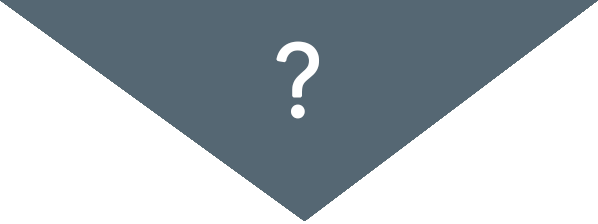
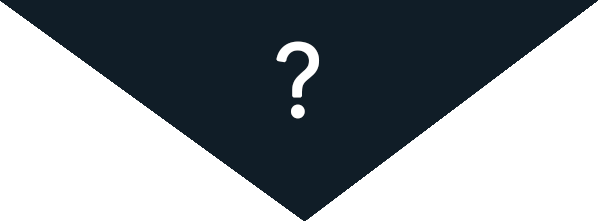
test
…

diff --git a/css/style.css b/css/style.css
@@ -1,1 +1,1 @@
-html,body,div,span,applet,object,iframe,h1,h2,h3,h4,h5,h6,p,blockquote,pre,a,abbr,acronym,address,big,cite,code,del,dfn,em,img,ins,kbd,q,s,samp,small,strike,strong,sub,sup,tt,var,b,u,i,center,dl,dt,dd,ol,ul,li,fieldset,form,label,legend,table,caption,tbody,tfoot,thead,tr,th,td,article,aside,canvas,details,embed,figure,figcaption,footer,header,hgroup,menu,nav,output,ruby,section,summary,time,mark,audio,video{margin:0;padding:0;border:0;font:inherit;font-size:100%;vertical-align:baseline}html{line-height:1}ol,ul{list-style:none}table{border-collapse:collapse;border-spacing:0}caption,th,td{text-align:left;font-weight:normal;vertical-align:middle}q,blockquote{quotes:none}q:before,q:after,blockquote:before,blockquote:after{content:"";content:none}a img{border:none}article,aside,details,figcaption,figure,footer,header,hgroup,main,menu,nav,section,summary{display:block}@font-face{font-family:"AvenirNext";src:url(../fonts/avenirnext.ttc)}@font-face{font-family:"Silom";src:url(../fonts/silom.ttf)}html{width:100%;height:100%}body{background-color:#101d27;background-image:url(../imgs/lowpoly.png);background-size:100%;background-repeat:no-repeat;overflow:auto}body header{background-color:black;width:100%;height:90px;z-index:20;position:fixed}body header #nav_haute{height:25px;width:100%;background:black}body header #barre_orange{height:4px;background:#ecc557;-webkit-animation-name:orange;-webkit-animation-duration:1s;animation-name:orange;animation-duration:1s}body header nav{width:100%;height:70px;background:black;oppacity:0.9}body header nav #nav_gauche{width:40%;float:left}body header nav #nav_gauche ul{margin-top:20px}body header nav #nav_gauche ul li a{color:white;opacity:0;display:block;text-decoration:none;font-family:"Avenir Next";text-align:center;font-size:25px;-webkit-animation-name:item_menu;-webkit-animation-duration:1s;-webkit-animation-delay:2s;-webkit-animation-fill-mode:forwards;animation-name:item_menu;animation-duration:1s;animation-delay:3s;animation-fill-mode:forwards}body header nav #nav_gauche ul li a:hover{color:#ecc557}body header nav #nav_gauche ul li:nth-child(1){width:50%;float:left}body header nav #nav_gauche ul li:nth-child(2){width:50%;float:right}body header nav #logo{width:20%;height:90px;visibility:hidden;position:absolute;margin-left:40%;background-image:url(../imgs/logo.png);background-size:71%;background-repeat:no-repeat;background-position:top center;-webkit-animation-name:logo;-webkit-animation-duration:1s;-webkit-animation-delay:1s;-webkit-animation-fill-mode:forwards;animation-name:logo;animation-duration:1s;animation-delay:1s;animation-fill-mode:forwards}body header nav #nav_droite{width:40%;float:right}body header nav #nav_droite ul{margin-top:20px}body header nav #nav_droite ul li a{color:white;opacity:0;display:block;text-decoration:none;font-family:"Avenir Next";text-align:center;font-size:25px;-webkit-animation-name:item_menu;-webkit-animation-duration:1s;-webkit-animation-delay:2s;-webkit-animation-fill-mode:forwards;animation-name:item_menu;animation-duration:1s;animation-delay:3s;animation-fill-mode:forwards}body header nav #nav_droite ul li a:hover{color:#ecc557}body header nav #nav_droite ul li:nth-child(1){width:50%;float:left}body header nav #nav_droite ul li:nth-child(2){width:50%;float:right}body header #transparente{width:100%;height:50px;opacity:0}body .fil_orange{width:0%;height:2px;position:relative;top:200px;-webkit-animation-name:fil_orange;-webkit-animation-duration:10s;-webkit-animation-delay:3s;-webkit-animation-iteration-count:infinite;-webkit-animation-timing-function:linear;animation-name:orange;animation-duration:3s;animation-delay:3s;animation:leaves O 0.3s;animation-iteration-count:infinite}body .fil_bleu_clair{width:0%;height:4px;position:relative;top:250px;-webkit-animation-name:fil_bleu_clair;-webkit-animation-duration:5s;-webkit-animation-delay:6s;-webkit-animation-iteration-count:infinite;-webkit-animation-timing-function:linear;animation-name:orange;animation-duration:3s;animation-delay:3s;animation:leaves O 0.3s;animation-iteration-count:infinite}body .fil_orange_2{width:0%;height:3px;position:relative;top:320px;-webkit-animation-name:fil_orange;-webkit-animation-duration:30s;-webkit-animation-delay:8s;-webkit-animation-iteration-count:infinite;-webkit-animation-timing-function:linear;animation-name:orange;animation-duration:3s;animation-delay:3s;animation:leaves O 0.3s;animation-iteration-count:infinite}body .fil_bleu_fonce{width:0%;height:6px;position:relative;top:350px;-webkit-animation-name:fil_bleu_fonce;-webkit-animation-duration:5s;-webkit-animation-delay:9s;-webkit-animation-iteration-count:infinite;-webkit-animation-timing-function:linear;animation-name:orange;animation-duration:3s;animation-delay:3s;animation:leaves O 0.3s;animation-iteration-count:infinite}body .fil_bleu_clair_2{width:0%;height:1px;position:relative;top:400px;-webkit-animation-name:fil_bleu_clair;-webkit-animation-duration:48s;-webkit-animation-delay:7s;-webkit-animation-iteration-count:infinite;-webkit-animation-timing-function:linear;animation-name:orange;animation-duration:3s;animation-delay:3s;animation:leaves O 0.3s;animation-iteration-count:infinite}body .fil_orange_3{width:0%;height:1px;position:relative;top:420px;-webkit-animation-name:fil_orange;-webkit-animation-duration:25s;-webkit-animation-delay:6.7s;-webkit-animation-iteration-count:infinite;-webkit-animation-timing-function:linear;animation-name:orange;animation-duration:3s;animation-delay:3s;animation:leaves O 0.3s;animation-iteration-count:infinite}body .fil_bleu_fonce_2{width:0%;height:1px;position:relative;top:470px;-webkit-animation-name:fil_bleu_fonce;-webkit-animation-duration:33s;-webkit-animation-delay:4.8s;-webkit-animation-iteration-count:infinite;-webkit-animation-timing-function:linear;animation-name:orange;animation-duration:3s;animation-delay:3s;animation:leaves O 0.3s;animation-iteration-count:infinite}body #illustration{width:100%;max-width:650px;margin:auto;margin-top:120px;margin-bottom:40px;display:block;z-index:-1;opacity:0;-webkit-animation-name:article;-webkit-animation-duration:1s;-webkit-animation-delay:3s;-webkit-animation-fill-mode:forwards;animation-name:article;animation-duration:3s;animation-delay:3s;animation-fill-mode:forwards}body .ligne_bleu{margin-top:10px;height:4px;width:100%;background:#556773}body .triangle_qui_suis_je{width:20%;height:100px;position:absolute;margin-left:40%;background-image:url(../imgs/qui-suis-je.png);background-size:71%;background-repeat:no-repeat;background-position:top center}body #qui-suis-je{width:100%;max-width:100%;margin:auto;bottom:30;background-color:#254258;overflow:auto}body #qui-suis-je article:nth-child(1){width:960px;margin:auto;font-family:"Avenir Next"}body #qui-suis-je article:nth-child(1) h1{color:white;font-size:35px;text-align:center;margin-top:150px}body #qui-suis-je article:nth-child(1) hr{height:2px;background-color:white;border:0;width:200px}body #qui-suis-je article:nth-child(1) p{color:white;text-align:justify;margin:20px 0px 20px 0px;line-height:20px;font-size:16px}body #qui-suis-je article:nth-child(1) .annonce{font-size:16px;text-align:center;line-height:20px;color:black;background:#ecc557;padding:10px 10px 10px 10px;margin-top:20px;margin:auto;width:500px;margin-bottom:150px}body #qui-suis-je article:nth-child(1) #rs{width:100%;overflow:auto;text-align:center;margin:20px 0px 20px 0px}body #qui-suis-je article:nth-child(1) #rs a{overflow:auto}body #qui-suis-je article:nth-child(1) #rs a img{width:40px}body #qui-suis-je article:nth-child(1) #rs a img:nth-child(1){margin:0px 10px 0px 10px}body #qui-suis-je article:nth-child(1) #rs a img:last-child{width:40px}@-webkit-keyframes orange{0%{width:0%;background:#ecc557}100%{width:100%;background:#ecc557}}@keyframes orange{0%{width:0%;background:#ecc557}100%{width:100%;background:#ecc557}}@-webkit-keyframes logo{0%{height:0px;visibility:visible}100%{height:100px;visibility:visible}}@keyframes logo{0%{height:0%;visibility:visible}100%{height:100%;visibility:visible}}@-webkit-keyframes item_menu{0%{opacity:0}100%{opacity:1}}@keyframes item_menu{0%{opacity:0}100%{opacity:1}}@-webkit-keyframes article{0%{opacity:0}100%{opacity:1}}@keyframes article{0%{opacity:0}100%{opacity:1}}@-webkit-keyframes fil_orange{0%{width:0%;background:#ecc557;opacity:1}40%{opacity:0.4}50%{width:100%;background:#ecc557;opacity:0.1}51%{opacity:0;background:#ecc557}100%{opacity:0;background:#ecc557}}@keyframes fil_orange{0%{width:0%;background:#ecc557}50%{width:100%;background:#ecc557}}@-webkit-keyframes fil_bleu_clair{0%{width:0%;background:#70818d;opacity:1}40%{opacity:0.4}50%{width:100%;background:#70818d;opacity:0.1}51%{opacity:0;background:#70818d}100%{opacity:0;background:#70818d}}@-webkit-keyframes fil_bleu_fonce{0%{width:0%;background:#556773;opacity:1}40%{opacity:0.4}50%{width:100%;background:#556773;opacity:0.1}51%{opacity:0;background:#556773}100%{opacity:0;background:#556773}}
+html,body,div,span,applet,object,iframe,h1,h2,h3,h4,h5,h6,p,blockquote,pre,a,abbr,acronym,address,big,cite,code,del,dfn,em,img,ins,kbd,q,s,samp,small,strike,strong,sub,sup,tt,var,b,u,i,center,dl,dt,dd,ol,ul,li,fieldset,form,label,legend,table,caption,tbody,tfoot,thead,tr,th,td,article,aside,canvas,details,embed,figure,figcaption,footer,header,hgroup,menu,nav,output,ruby,section,summary,time,mark,audio,video{margin:0;padding:0;border:0;font:inherit;font-size:100%;vertical-align:baseline}html{line-height:1}ol,ul{list-style:none}table{border-collapse:collapse;border-spacing:0}caption,th,td{text-align:left;font-weight:normal;vertical-align:middle}q,blockquote{quotes:none}q:before,q:after,blockquote:before,blockquote:after{content:"";content:none}a img{border:none}article,aside,details,figcaption,figure,footer,header,hgroup,main,menu,nav,section,summary{display:block}@font-face{font-family:"AvenirNext";src:url(../fonts/avenirnext.ttc)}@font-face{font-family:"Silom";src:url(../fonts/silom.ttf)}html{width:100%;height:100%}body{background-color:#101d27;background-image:url(../imgs/lowpoly.png);background-size:100%;background-repeat:no-repeat;overflow:auto}body header{background-color:black;width:100%;height:90px;z-index:20;position:fixed}body header #nav_haute{height:25px;width:100%;background:black}body header #barre_orange{height:4px;background:#ecc557;-webkit-animation-name:orange;-webkit-animation-duration:1s;animation-name:orange;animation-duration:1s}body header nav{width:100%;height:70px;background:black;oppacity:0.9}body header nav #nav_gauche{width:40%;float:left}body header nav #nav_gauche ul{margin-top:20px}body header nav #nav_gauche ul li a{color:white;opacity:0;display:block;text-decoration:none;font-family:"Avenir Next";text-align:center;font-size:25px;-webkit-animation-name:item_menu;-webkit-animation-duration:1s;-webkit-animation-delay:2s;-webkit-animation-fill-mode:forwards;animation-name:item_menu;animation-duration:1s;animation-delay:3s;animation-fill-mode:forwards}body header nav #nav_gauche ul li a:hover{color:#ecc557}body header nav #nav_gauche ul li:nth-child(1){width:50%;float:left}body header nav #nav_gauche ul li:nth-child(2){width:50%;float:right}body header nav #logo{width:20%;height:90px;visibility:hidden;position:absolute;margin-left:40%;background-image:url(../imgs/logo.png);background-size:71%;background-repeat:no-repeat;background-position:top center;-webkit-animation-name:logo;-webkit-animation-duration:1s;-webkit-animation-delay:1s;-webkit-animation-fill-mode:forwards;animation-name:logo;animation-duration:1s;animation-delay:1s;animation-fill-mode:forwards}body header nav #nav_droite{width:40%;float:right}body header nav #nav_droite ul{margin-top:20px}body header nav #nav_droite ul li a{color:white;opacity:0;display:block;text-decoration:none;font-family:"Avenir Next";text-align:center;font-size:25px;-webkit-animation-name:item_menu;-webkit-animation-duration:1s;-webkit-animation-delay:2s;-webkit-animation-fill-mode:forwards;animation-name:item_menu;animation-duration:1s;animation-delay:3s;animation-fill-mode:forwards}body header nav #nav_droite ul li a:hover{color:#ecc557}body header nav #nav_droite ul li:nth-child(1){width:50%;float:left}body header nav #nav_droite ul li:nth-child(2){width:50%;float:right}body header #transparente{width:100%;height:50px;opacity:0}body .fil_orange{width:0%;height:2px;position:relative;top:200px;-webkit-animation-name:fil_orange;-webkit-animation-duration:10s;-webkit-animation-delay:3s;-webkit-animation-iteration-count:infinite;-webkit-animation-timing-function:linear;animation-name:orange;animation-duration:3s;animation-delay:3s;animation:leaves O 0.3s;animation-iteration-count:infinite}body .fil_bleu_clair{width:0%;height:4px;position:relative;top:250px;-webkit-animation-name:fil_bleu_clair;-webkit-animation-duration:5s;-webkit-animation-delay:6s;-webkit-animation-iteration-count:infinite;-webkit-animation-timing-function:linear;animation-name:orange;animation-duration:3s;animation-delay:3s;animation:leaves O 0.3s;animation-iteration-count:infinite}body .fil_orange_2{width:0%;height:3px;position:relative;top:320px;-webkit-animation-name:fil_orange;-webkit-animation-duration:30s;-webkit-animation-delay:8s;-webkit-animation-iteration-count:infinite;-webkit-animation-timing-function:linear;animation-name:orange;animation-duration:3s;animation-delay:3s;animation:leaves O 0.3s;animation-iteration-count:infinite}body .fil_bleu_fonce{width:0%;height:6px;position:relative;top:350px;-webkit-animation-name:fil_bleu_fonce;-webkit-animation-duration:5s;-webkit-animation-delay:9s;-webkit-animation-iteration-count:infinite;-webkit-animation-timing-function:linear;animation-name:orange;animation-duration:3s;animation-delay:3s;animation:leaves O 0.3s;animation-iteration-count:infinite}body .fil_bleu_clair_2{width:0%;height:1px;position:relative;top:400px;-webkit-animation-name:fil_bleu_clair;-webkit-animation-duration:48s;-webkit-animation-delay:7s;-webkit-animation-iteration-count:infinite;-webkit-animation-timing-function:linear;animation-name:orange;animation-duration:3s;animation-delay:3s;animation:leaves O 0.3s;animation-iteration-count:infinite}body .fil_orange_3{width:0%;height:1px;position:relative;top:420px;-webkit-animation-name:fil_orange;-webkit-animation-duration:25s;-webkit-animation-delay:6.7s;-webkit-animation-iteration-count:infinite;-webkit-animation-timing-function:linear;animation-name:orange;animation-duration:3s;animation-delay:3s;animation:leaves O 0.3s;animation-iteration-count:infinite}body .fil_bleu_fonce_2{width:0%;height:1px;position:relative;top:470px;-webkit-animation-name:fil_bleu_fonce;-webkit-animation-duration:33s;-webkit-animation-delay:4.8s;-webkit-animation-iteration-count:infinite;-webkit-animation-timing-function:linear;animation-name:orange;animation-duration:3s;animation-delay:3s;animation:leaves O 0.3s;animation-iteration-count:infinite}body #illustration{width:100%;max-width:650px;margin:auto;margin-top:120px;margin-bottom:40px;display:block;z-index:-1;opacity:0;-webkit-animation-name:article;-webkit-animation-duration:1s;-webkit-animation-delay:3s;-webkit-animation-fill-mode:forwards;animation-name:article;animation-duration:3s;animation-delay:3s;animation-fill-mode:forwards;background:fixed}body #intitule_pricipale{font-size:42px;font-family:"Avenir Next";color:#cec5c5;text-align:center;margin-bottom:40px}body #intitule_secondaire{font-family:"Silom";font-size:12px;color:#969696;text-align:center}body .ligne_qui-suis-je{margin-top:10px;height:4px;width:100%;background:#101d27}body .triangle_qui_suis_je{width:20%;height:100px;position:absolute;margin-left:40%;background-image:url(../imgs/qui-suis-je.png);background-size:71%;background-repeat:no-repeat;background-position:top center}body #qui-suis-je{width:100%;max-width:100%;margin:auto;bottom:30;background-color:#283946;overflow:auto}body #qui-suis-je article:nth-child(1){width:960px;margin:auto;font-family:"Avenir Next"}body #qui-suis-je article:nth-child(1) h1{color:white;font-size:35px;text-align:center;margin-top:150px}body #qui-suis-je article:nth-child(1) hr{height:2px;background-color:white;border:0;width:200px}body #qui-suis-je article:nth-child(1) p{color:white;text-align:justify;margin:20px 0px 20px 0px;line-height:30px;font-size:16px}body #qui-suis-je article:nth-child(1) .annonce{font-size:16px;text-align:center;line-height:20px;color:black;background:#ecc557;padding:10px 10px 10px 10px;margin-top:20px;margin:auto;width:500px;margin-bottom:150px}body #qui-suis-je article:nth-child(1) #rs{width:100%;text-align:center;margin:20px 0px 20px 0px}body #qui-suis-je article:nth-child(1) #rs a{overflow:auto}body #qui-suis-je article:nth-child(1) #rs a img{width:40px}body #qui-suis-je article:nth-child(1) #rs a img:nth-child(1){margin:0px 10px 0px 10px}body #qui-suis-je article:nth-child(1) #rs a img:last-child{width:40px}body .ligne_cv{height:4px;width:100%;background:#283946}body .triangle_cv{width:20%;height:100px;position:absolute;margin-left:40%;background-image:url(../imgs/cv.png);background-size:71%;background-repeat:no-repeat;background-position:top center}body #cv{width:100%;max-width:100%;margin:auto;bottom:30;background-color:#556773;overflow:auto}body #cv article:nth-child(1){width:960px;margin:auto;font-family:"Avenir Next"}body #cv article:nth-child(1) h1{color:white;font-size:35px;text-align:center;margin-top:150px}body #cv article:nth-child(1) hr{height:2px;background-color:white;border:0;width:200px}body #cv article:nth-child(1) p{color:white;text-align:justify;margin:20px 0px 20px 0px;line-height:30px;font-size:16px}@-webkit-keyframes orange{0%{width:0%;background:#ecc557}100%{width:100%;background:#ecc557}}@keyframes orange{0%{width:0%;background:#ecc557}100%{width:100%;background:#ecc557}}@-webkit-keyframes logo{0%{height:0px;visibility:visible}100%{height:100px;visibility:visible}}@keyframes logo{0%{height:0%;visibility:visible}100%{height:100%;visibility:visible}}@-webkit-keyframes item_menu{0%{opacity:0}100%{opacity:1}}@keyframes item_menu{0%{opacity:0}100%{opacity:1}}@-webkit-keyframes article{0%{opacity:0}100%{opacity:1}}@keyframes article{0%{opacity:0}100%{opacity:1}}@-webkit-keyframes fil_orange{0%{width:0%;background:#ecc557;opacity:1}40%{opacity:0.4}50%{width:100%;background:#ecc557;opacity:0.1}51%{opacity:0;background:#ecc557}100%{opacity:0;background:#ecc557}}@keyframes fil_orange{0%{width:0%;background:#ecc557}50%{width:100%;background:#ecc557}}@-webkit-keyframes fil_bleu_clair{0%{width:0%;background:#70818d;opacity:1}40%{opacity:0.4}50%{width:100%;background:#70818d;opacity:0.1}51%{opacity:0;background:#70818d}100%{opacity:0;background:#70818d}}@-webkit-keyframes fil_bleu_fonce{0%{width:0%;background:#556773;opacity:1}40%{opacity:0.4}50%{width:100%;background:#556773;opacity:0.1}51%{opacity:0;background:#556773}100%{opacity:0;background:#556773}}

diff --git a/index.html b/index.html
@@ -50,46 +50,59 @@
 	    
 	    
 	   <img id="illustration" src="imgs/axelbaron.png" alt="">
+	    <p id="intitule_pricipale">Developpeur web front / back</p>
+	   <p id="intitule_secondaire">Illustrateur / Bassiste</p>
 	    
         
-        <div class="ligne_bleu"></div>
+        <div class="ligne_qui-suis-je"></div>
         <div class="triangle_qui_suis_je"></div>
-        <section id="qui-suis-je">
-            
-            <article>
-                <h1>Qui suis-je ?</h1>
+       <section id="qui-suis-je">
+
+        <article>
+            <h1>Qui suis-je ?</h1>
+            <hr/>
+
+            <p>Bienvenue sur mon portfolio, je suis étudiant en DUT Métiers du Multimédias et de l'Internet, vous trouverez ici mes créations webs, graphiques et musicales. N'hésitez pas à me contacter grâce au formulaire de contact, ou à télécharger mon CV..</p>
+
+            <div id="rs">
+                        <a href="https://www.facebook.com/axlbrn"><img src="imgs/facebook.png" alt="logo facebook"></a>
+                        <a href="https://twitter.com/Axl_Baron"><img src="imgs/tweeter.png" alt="logo tweeter"></a>
+                        <a href="https://www.linkedin.com/profile/view?id=296565905&trk=hp-identity-name"><img src="imgs/linkdin.png" alt="logo linkdin"></a>
+           </div>
+
+            <p class="annonce">Je suis actuellement à la recherche d'un contrat de profesionnalisation dans le domaine du développement web pour l'année scolaire 2015 / 2016 ! </p>
+
+
+
+        </article>
+
+<!--
+        <article>
+            <div id="information">
+                <div id="haut_orange"></div>
+               
+                
+                <div id="information_contener">
+                    <p>Bienvenue ! Je suis étudiant en DUT Métiers du Multimédia et de l'Internet, vous trouverez ici mes créations webs en tant qu'développer front et back, mais aussi en temps qu'illustrateur et musicien. N'hésitez pas à me contacter grâce au formulaire de contact, ou à télécharger mon CV.</p>
+
+                    <p>Je suis actuellement à la recherche d'un contrat de profesionnalisation dans le domaine du développement web pour l'année scolaire 2015 / 2016 ! </p>
+
+                </div>
+            </div>
+            <div id="triangle_information"></div>
+        </article>
+-->
+    </section>
+	    
+	    <div class="ligne_cv"></div>
+        <div class="triangle_cv"></div>
+	    <section id="cv">
+	        <article>
+                <h1>C.V</h1>
                 <hr/>
-                
-                <p>Bienvenue sur mon portfolio, je suis étudiant en DUT Métiers du Multimédias et de l'Internet, vous trouverez ici mes créations webs, graphiques et musicales. N'hésitez pas à me contacter grâce au formulaire de contact, ou à télécharger mon CV..</p>
-                
-                <div id="rs">
-	                        <a href="https://www.facebook.com/axlbrn"><img src="imgs/facebook.png" alt="logo facebook"></a>
-	                        <a href="https://twitter.com/Axl_Baron"><img src="imgs/tweeter.png" alt="logo tweeter"></a>
-	                        <a href="https://www.linkedin.com/profile/view?id=296565905&trk=hp-identity-name"><img src="imgs/linkdin.png" alt="logo linkdin"></a>
-	           </div>
-                
-                <p class="annonce">Je suis actuellement à la recherche d'un contrat de profesionnalisation dans le domaine du développement web pour l'année scolaire 2015 / 2016 ! </p>
-                
-                
+                <p>Lorem ipsum dolor sit amet, consectetur adipisicing elit. Odio cum, natus veniam iure vitae quam laborum voluptatum nam doloremque fugiat, exercitationem sed a dolorum numquam voluptates quas repudiandae consequuntur. Illo?</p>
                 
             </article>
-	        
-<!--
-	        <article>
-	            <div id="information">
-	                <div id="haut_orange"></div>
-	                <p id="intitule_pricipale">Développer web front/back</p>
-	                <p id="intitule_secondaire">Illustrateur / Bassiste</p>
-	                <div id="information_contener">
-	                    <p>Bienvenue ! Je suis étudiant en DUT Métiers du Multimédia et de l'Internet, vous trouverez ici mes créations webs en tant qu'développer front et back, mais aussi en temps qu'illustrateur et musicien. N'hésitez pas à me contacter grâce au formulaire de contact, ou à télécharger mon CV.</p>
-	                    
-	                    <p>Je suis actuellement à la recherche d'un contrat de profesionnalisation dans le domaine du développement web pour l'année scolaire 2015 / 2016 ! </p>
-	                    
-	                </div>
-	            </div>
-	            <div id="triangle_information"></div>
-	        </article>
--->
 	    </section>
 	</body>
 </html>

diff --git a/sass/style.scss b/sass/style.scss
@@ -4,6 +4,7 @@ $orange : #ecc557 ;
 $violetFonce : #101d27;
 $bleuFonce : #556773;
 $bleuClair: #70818d;
+$quiSuisJe: #283946;
 @font-face{
     font-family: "AvenirNext";
     src: url(../fonts/avenirnext.ttc);
@@ -316,14 +317,30 @@ body{
         animation-duration: 3s;
         animation-delay: 3s;
         animation-fill-mode: forwards;
+        background: fixed;
             
     }
-    
-    .ligne_bleu{
+   
+    #intitule_pricipale{
+          font-size: 42px;
+          font-family: "Avenir Next";
+          color: #cec5c5;
+          text-align: center;
+        margin-bottom: 40px;
+    }
+        
+    #intitule_secondaire{
+                    font-family: "Silom";
+                    font-size: 12px;
+                    color: #969696;
+                    text-align: center;
+    }
+        
+    .ligne_qui-suis-je{
         margin-top: 10px;
         height: 4px;
         width: 100%;
-        background: $bleuFonce;
+        background: #101d27;
     }
     
     .triangle_qui_suis_je{
@@ -342,7 +359,7 @@ body{
         max-width: 100%;
         margin: auto;
         bottom: 30;
-        background-color: #254258;
+        background-color: $quiSuisJe;
         overflow: auto;
         
         article:nth-child(1){
@@ -369,7 +386,7 @@ body{
                 color: white;
                 text-align: justify;
                 margin: 20px 0px 20px 0px;
-                line-height: 20px;
+                line-height: 30px;
                 font-size: 16px;
             }
             
@@ -388,7 +405,6 @@ body{
             
             #rs{
                 width: 100%;
-                overflow: auto;
                 text-align: center;
                 margin: 20px 0px 20px 0px;;
 
@@ -408,6 +424,61 @@ body{
             }
         }
         
+    }
+    
+    .ligne_cv{
+        height: 4px;
+        width: 100%;
+        background: $quiSuisJe;
+    }
+    
+    .triangle_cv{
+        width: 20%;
+        height: 100px;
+        position: absolute;
+        margin-left: 40%;
+        background-image: url(../imgs/cv.png);
+        background-size: 71%;
+        background-repeat: no-repeat;
+        background-position: top center;
+    }
+    
+    #cv{
+        width: 100%;
+        max-width: 100%;
+        margin: auto;
+        bottom: 30;
+        background-color: $bleuFonce;
+        overflow: auto;
+        
+        article:nth-child(1){
+            width: 960px;
+            margin: auto;
+            font-family: "Avenir Next";
+            
+            h1{
+                color: white;
+                font-size: 35px;
+                text-align: center;
+                margin-top: 150px;
+                
+            }
+            
+            hr{
+               height: 2px;
+                background-color: white;
+                border: 0;
+                width: 200px;
+            }
+            
+            p{
+                color: white;
+                text-align: justify;
+                margin: 20px 0px 20px 0px;
+                line-height: 30px;
+                font-size: 16px;
+            }
+        }
 //        article:nth-child(2){
 //            width: 40%;
 //            height: 100%;
@@ -432,20 +503,9 @@ body{
 //                    background-size: 80%;
 //                }
 //                
-//                #intitule_pricipale{
-//                    font-family: "Silom";
-//                    font-size: 20px;
-//                    color: white;
-//                    text-align: center;
-//                    padding: 20px 0px 12px 0px;
-//                }
 //                
-//                #intitule_secondaire{
-//                    font-family: "Silom";
-//                    font-size: 12px;
-//                    color: #969696;
-//                    text-align: center;
-//                }
+//                
+//                
 //                
 //                #information_contener{
 //                    width: 85%;
